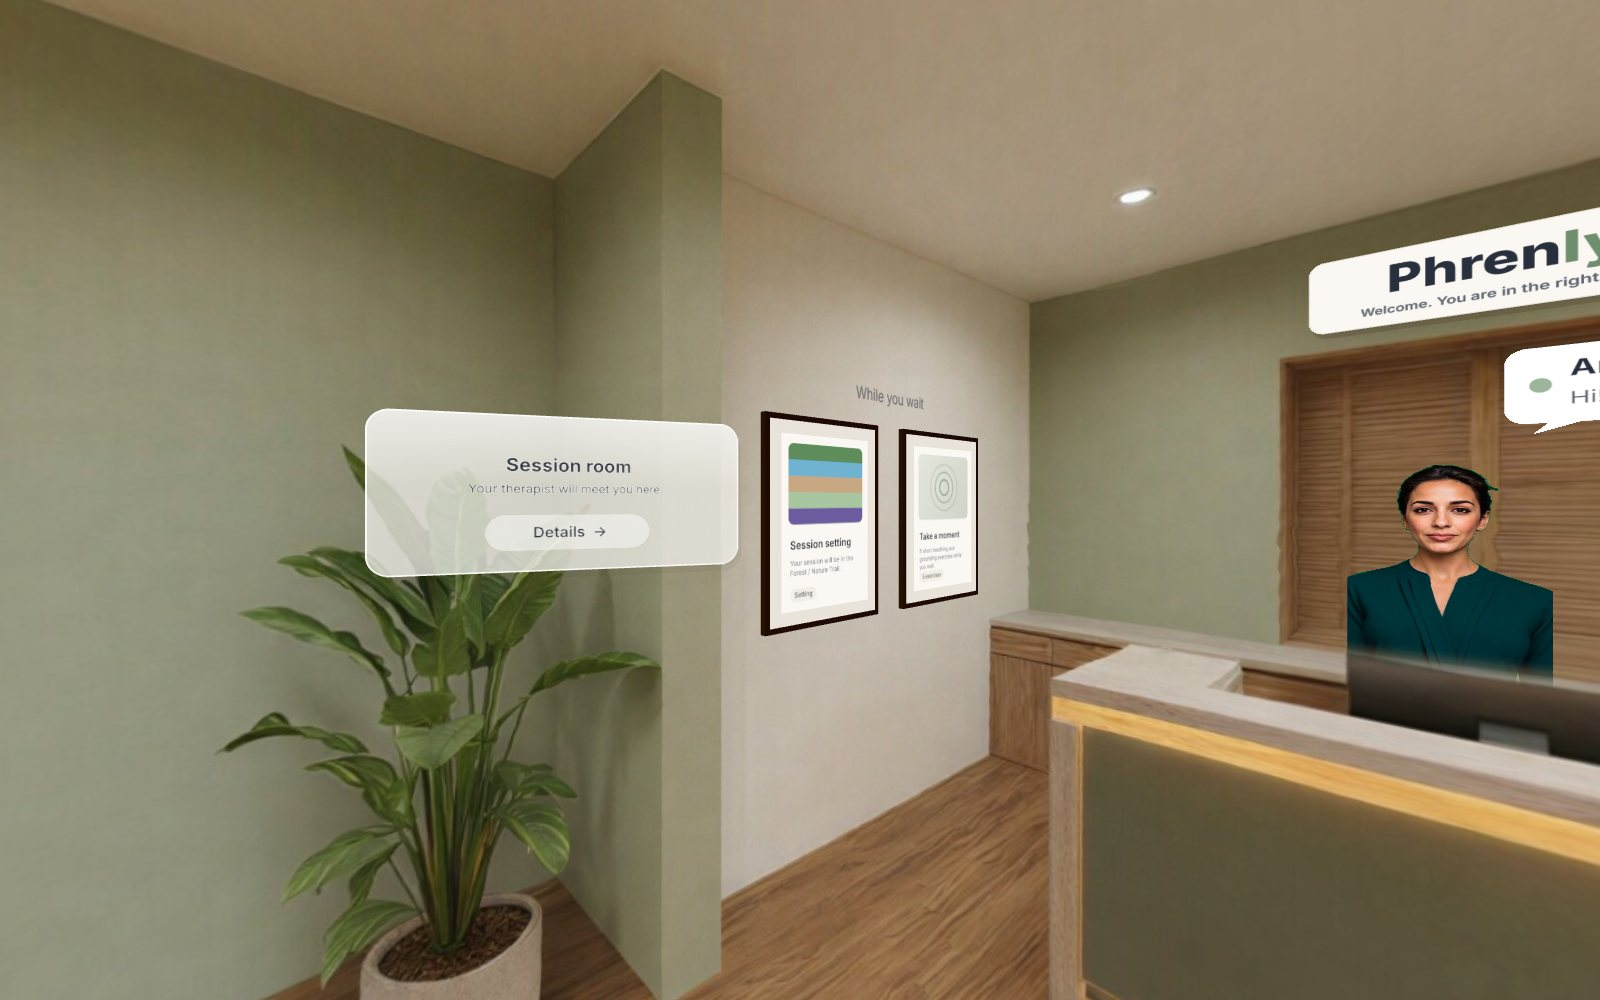
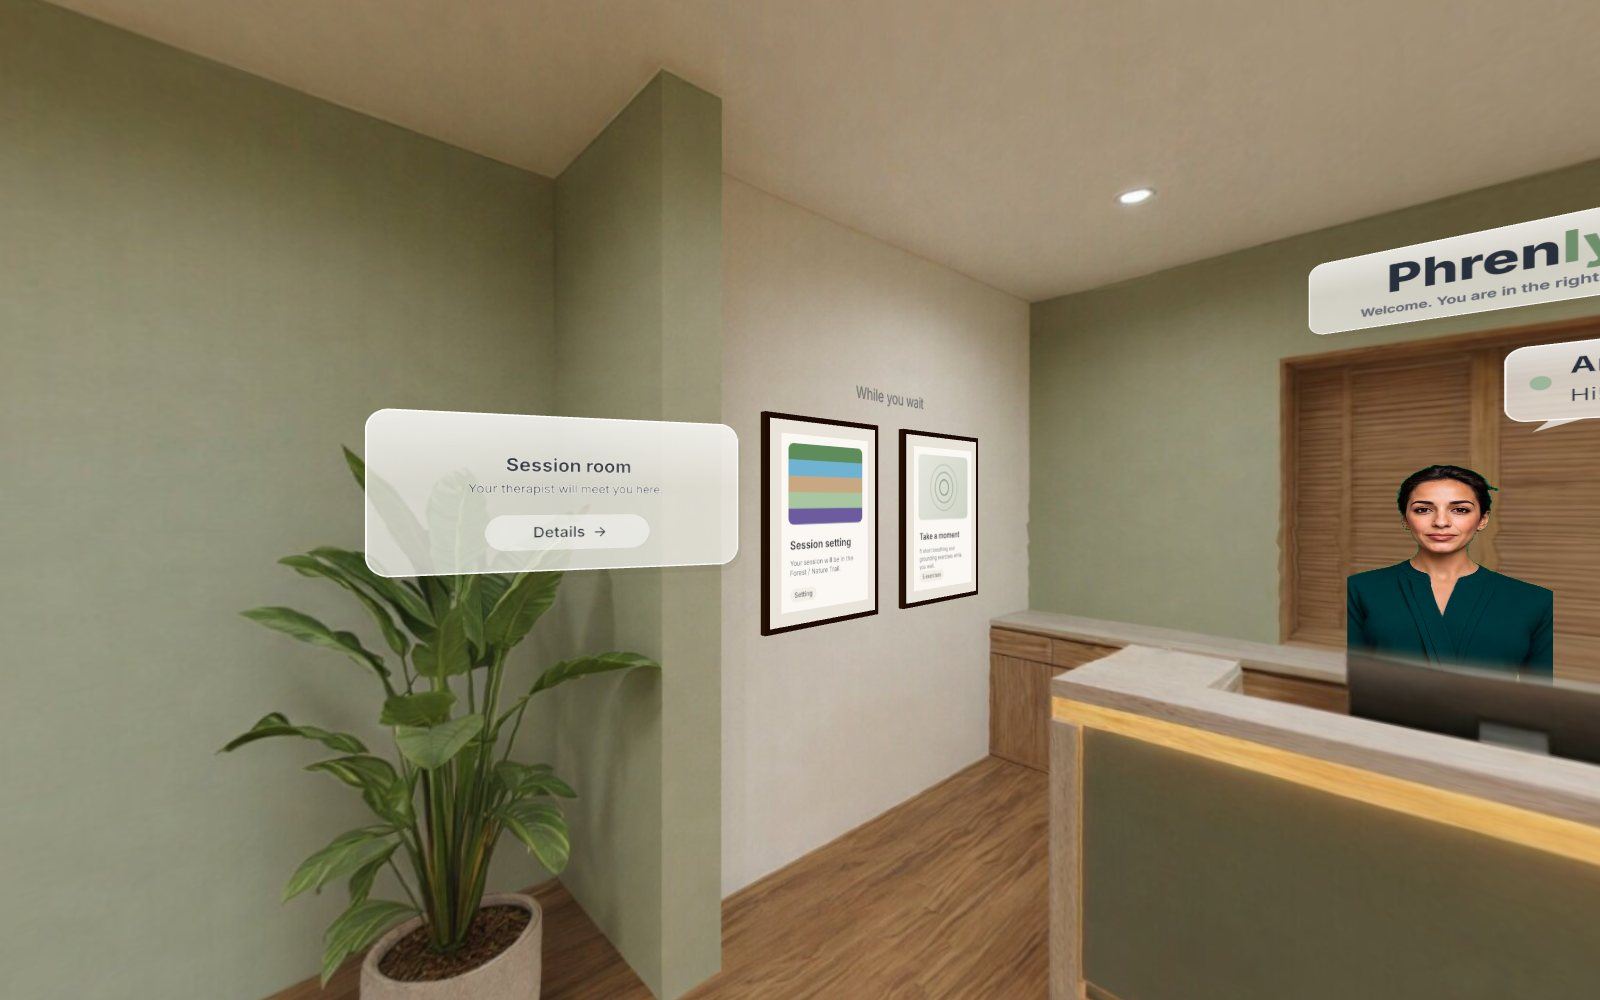
Make Try Phrenly VR now the main button, and show the glass waiting room
Claude-Session: https://claude.ai/code/session_0144BSs1JVynF19duPQJPTri

Changed region(s): [[0.8125, 0.217, 1.0, 0.341], [0.9375, 0.341, 1.0, 0.434]]

diff --git a/vr.html b/vr.html
@@ -66,10 +66,15 @@ img { display: block; max-width: 100%; }
 .btn-primary:hover { background: var(--sage2); transform: translateY(-1px); }
 .btn-outline { font-size: 14px; font-weight: 500; padding: 14px 26px; color: var(--ink2); border: 1.5px solid var(--border2); border-radius: 100px; text-decoration: none; transition: all 0.2s; display: inline-block; }
 .btn-outline:hover { border-color: var(--sage); color: var(--sage2); }
-.cta-row { display: flex; gap: 12px; justify-content: center; flex-wrap: wrap; }
+.cta-row { display: flex; gap: 12px; justify-content: center; align-items: center; flex-wrap: wrap; }
+.btn-try { font-size: 17px; padding: 17px 38px; background: var(--sage3); box-shadow: 0 10px 30px rgba(74,93,67,0.32); }
+.btn-try:hover { background: var(--ink); }
+.try-note { font-size: 13px; color: var(--ink3); margin-top: 14px; }
+.cta-try { margin-bottom: 8px; background: #fff; color: var(--sage3); }
+.cta-try:hover { background: var(--sage-pale); }
 
 /* ── 360° PREVIEW ── */
-.stage-wrap { max-width: 1200px; margin: 0 auto; padding: 24px 48px 0; }
+.stage-wrap { scroll-margin-top: 84px; max-width: 1200px; margin: 0 auto; padding: 24px 48px 0; }
 .stage { position: relative; aspect-ratio: 16 / 9; border-radius: 28px; overflow: hidden; background: var(--ink); box-shadow: 0 24px 80px rgba(26,35,24,0.18); }
 .stage img, .stage iframe { position: absolute; inset: 0; width: 100%; height: 100%; object-fit: cover; border: 0; }
 .stage-start { position: absolute; inset: 0; display: flex; flex-direction: column; align-items: center; justify-content: center; gap: 14px; background: linear-gradient(to top, rgba(26,35,24,0.55), rgba(26,35,24,0.05) 60%); border: 0; cursor: pointer; color: #fff; font-family: inherit; }
@@ -227,10 +232,11 @@ img { display: block; max-width: 100%; }
     <li><a href="/#exercises">The tools</a></li>
     <li><a href="#companions">Companions</a></li>
     <li><a href="#places">Places</a></li>
+    <li><a href="#pilot">Waitlist</a></li>
     <li><a href="/for-clinicians">For clinicians</a></li>
     <li><a href="https://phrentech.com">PhrenTech</a></li>
   </ul>
-  <a href="#pilot" class="nav-cta">Join the waitlist</a>
+  <a href="#preview" class="nav-cta" data-try>Try Phrenly VR now</a>
 </nav>
 
 <header class="hero">
@@ -238,11 +244,12 @@ img { display: block; max-width: 100%; }
   <h1>Therapy, <em>your way.</em></h1>
   <p class="hero-p">Phrenly VR is a virtual waiting room and therapy space. Check in with Aria, meet your therapist on a quiet beach, in a forest, a zen garden or a cozy office, and sit with an AI wellness companion on the days in between. In a headset, on a laptop or on your phone.</p>
   <div class="cta-row">
-    <a href="#preview" class="btn-primary">Look around in 360°</a>
+    <a href="#preview" class="btn-primary btn-try" data-try>Try Phrenly VR now</a>
     <a href="#companions" class="btn-outline">Meet the companions</a>
     <a href="#pilot" class="btn-outline">Join the waitlist</a>
     <a href="#tour" class="btn-outline">Watch the tour</a>
   </div>
+  <p class="try-note">Opens the live preview right here on the page. No account and nothing to install.</p>
 </header>
 
 <section class="stage-wrap" id="preview" aria-label="Interactive 360° preview">
@@ -422,7 +429,8 @@ img { display: block; max-width: 100%; }
 <section class="section" style="padding-top:0" id="pilot">
   <div class="cta-card">
     <h2>Join the <em>Phrenly VR waitlist.</em></h2>
-    <p>We're opening Phrenly VR to a first group of therapists and their clients.</p>
+    <p>We're opening Phrenly VR to a first group of therapists and their clients. You can try the preview today.</p>
+    <a href="#preview" class="btn-primary cta-try" data-try>Try Phrenly VR now</a>
     <div class="pilot">
       <div class="pilot-card">
         <h3>For therapists</h3>
@@ -470,7 +478,8 @@ img { display: block; max-width: 100%; }
 <script>
   // The preview is a full 3D scene, so it only loads when asked for.
   var DEMO_URL = 'https://vr.phrenly.com/demo';
-  document.getElementById('start').addEventListener('click', function () {
+  function startPreview() {
+    if (document.querySelector('#stage iframe')) return;
     var frame = document.createElement('iframe');
     frame.src = DEMO_URL;
     frame.title = 'Phrenly VR preview';
@@ -478,7 +487,12 @@ img { display: block; max-width: 100%; }
     frame.allowFullscreen = true;
     var stage = document.getElementById('stage');
     stage.replaceChildren(frame);
-  });
+  }
+  document.getElementById('start').addEventListener('click', startPreview);
+  // Every "Try Phrenly VR now" button scrolls to the preview and starts it.
+  document.querySelectorAll('[data-try]').forEach(function (link) { link.addEventListener('click', startPreview); });
+  // Links from other pages (/vr#try) do the same.
+  if (location.hash === '#try') { startPreview(); document.getElementById('preview').scrollIntoView(); }
   // The pilot form goes to Phrenly VR's waitlist.
   var form = document.getElementById('pilot-form');
   var msg = document.getElementById('pilot-msg');

diff --git a/index.html b/index.html
@@ -326,7 +326,9 @@ gap: 52px; align-items: center;
 .vr-body h2 { font-size: clamp(22px,2.6vw,34px); color: #f1f5f9; margin-bottom: 14px; }
 .vr-body h2 em { color: var(--sage-light); font-style: normal; }
 .vr-body p { font-size: 15px; color: rgba(241,245,249,0.6); line-height: 1.75; margin-bottom: 20px; }
-.vr-link { font-size: 14px; font-weight: 700; color: var(--sage-light); }
+.vr-link { font-size: 13px; font-weight: 500; color: rgba(241,245,249,0.6); }
+.vr-try { align-self: flex-start; font-size: 16px; font-weight: 700; padding: 15px 32px; border-radius: 100px; background: #fff; color: var(--sage3); margin-bottom: 12px; transition: background 0.2s; }
+.vr-card:hover .vr-try { background: var(--sage-pale); }
 @media (max-width: 768px) { .vr-wrap { padding: 0 20px 56px; } .vr-card { grid-template-columns: 1fr; } .vr-shots { min-height: 240px; } .vr-faces span { display: none; } .vr-body { padding: 28px 22px 30px; } }
 .voice-card { background: var(--ink); border-radius: 28px; padding: 56px 52px; }
 .voice-card h2 { font-size: clamp(24px,3vw,40px); color: #f1f5f9; margin-bottom: 16px; }
@@ -400,7 +402,7 @@ gap: 52px; align-items: center;
 </script>
 </head>
 <body>
-<a class="vr-bar" href="/vr"><strong>New · Phrenly VR</strong> &nbsp;Therapy, your way. The waitlist is open. <span>Take a look →</span></a>
+<a class="vr-bar" href="/vr#try"><strong>New · Phrenly VR</strong> &nbsp;Now with AI wellness companions. <span>Try it now →</span></a>
 <!-- NAV -->
 <nav class="nav">
 <a href="/" class="nav-logo">Phren<span>ly</span></a>
@@ -705,7 +707,7 @@ gap: 52px; align-items: center;
 
 <!-- PHRENLY VR -->
 <div class="vr-wrap">
-<a class="vr-card" href="/vr">
+<a class="vr-card" href="/vr#try">
 <div class="vr-shots" id="vr-shots">
 <img class="on" src="/vr/lobby.jpg" alt="The Phrenly VR waiting room, with Aria at the reception desk" loading="lazy"/>
 <img src="/vr/beach.jpg" alt="The beach at sunset in Phrenly VR" loading="lazy"/>
@@ -717,7 +719,8 @@ gap: 52px; align-items: center;
 <div class="vr-badge">New · Phrenly VR</div>
 <h2>Phrenly VR: therapy, <em>your way.</em></h2>
 <p>Phrenly VR is a virtual waiting room and therapy space. Check in with Aria, then sit down with your therapist in the place you choose. Between sessions, sit with an AI wellness companion on a quiet beach and talk things through, hands free. In a headset, on a laptop or on your phone.</p>
-<span class="vr-link">Meet the companions and look around in 360° →</span>
+<span class="vr-try">Try Phrenly VR now</span>
+<span class="vr-link">Free preview in your browser. No account needed.</span>
 </div>
 </a>
 </div>
